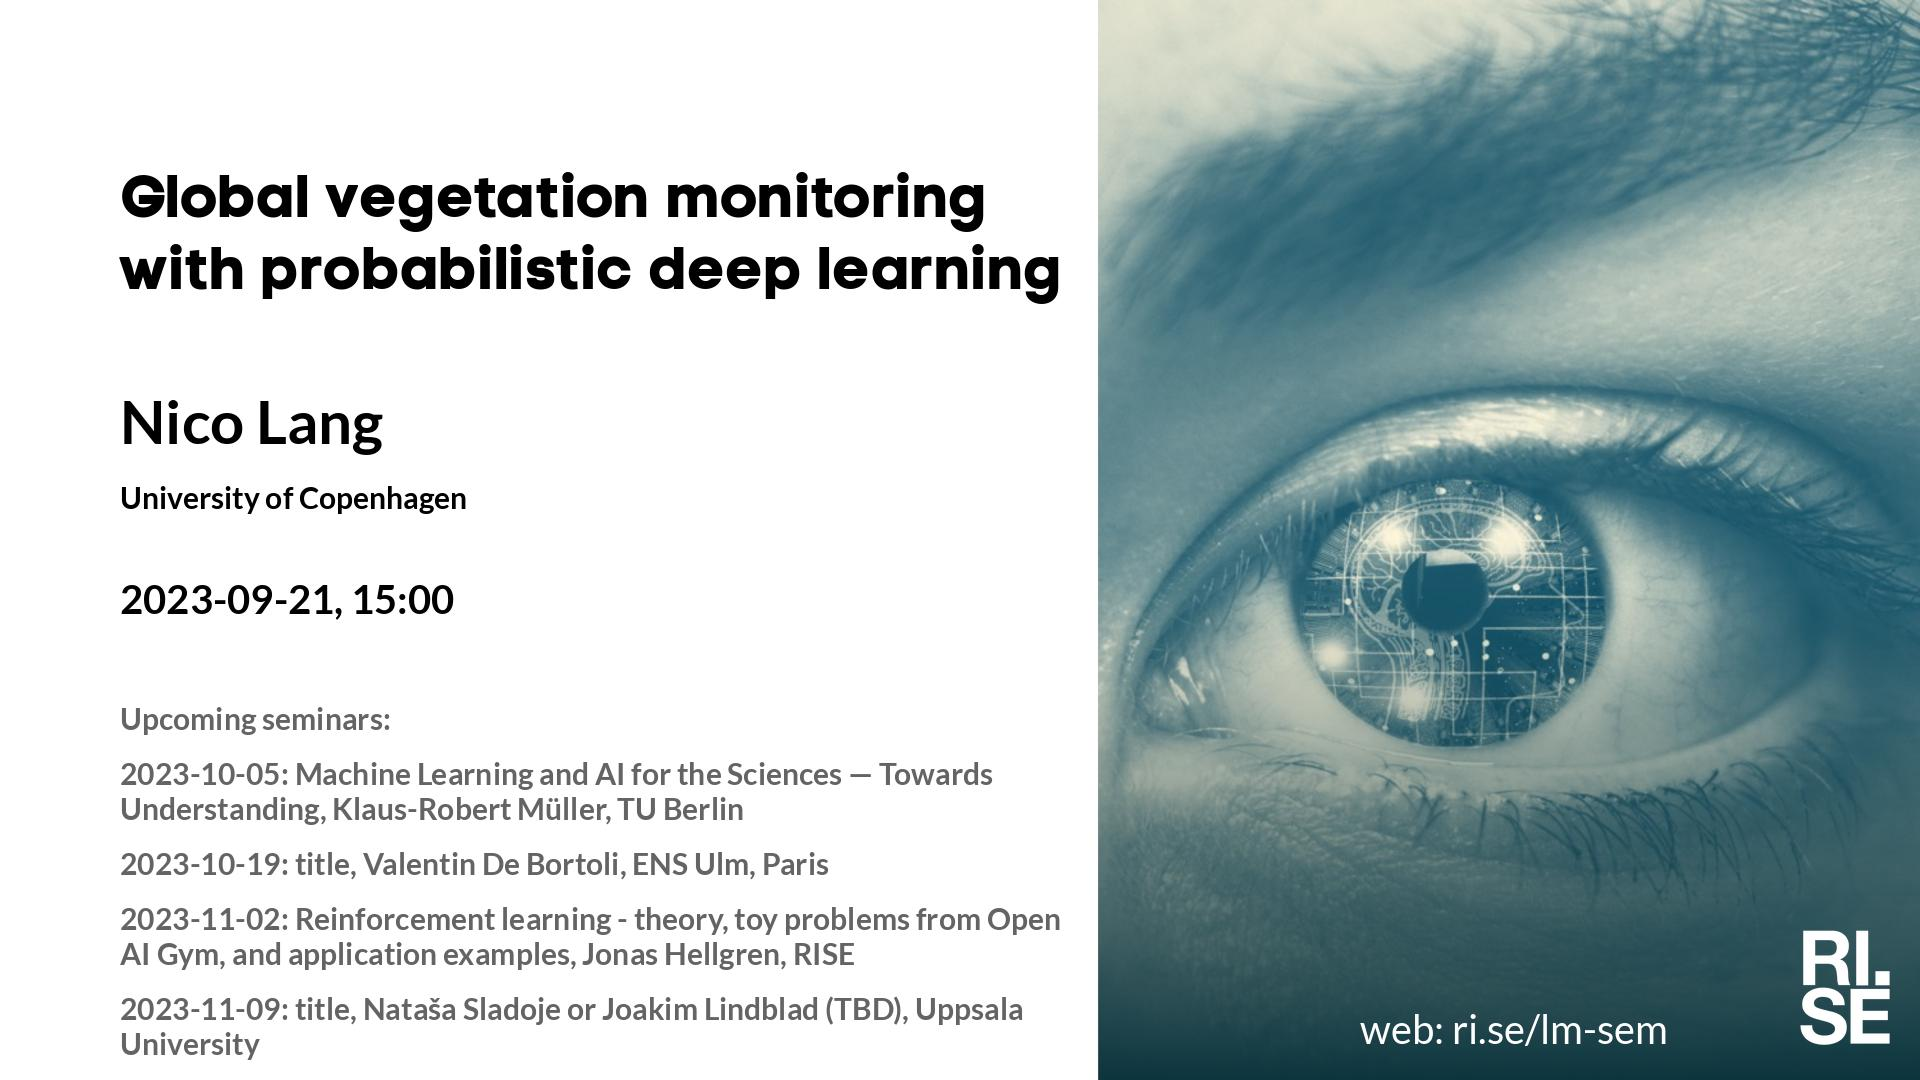
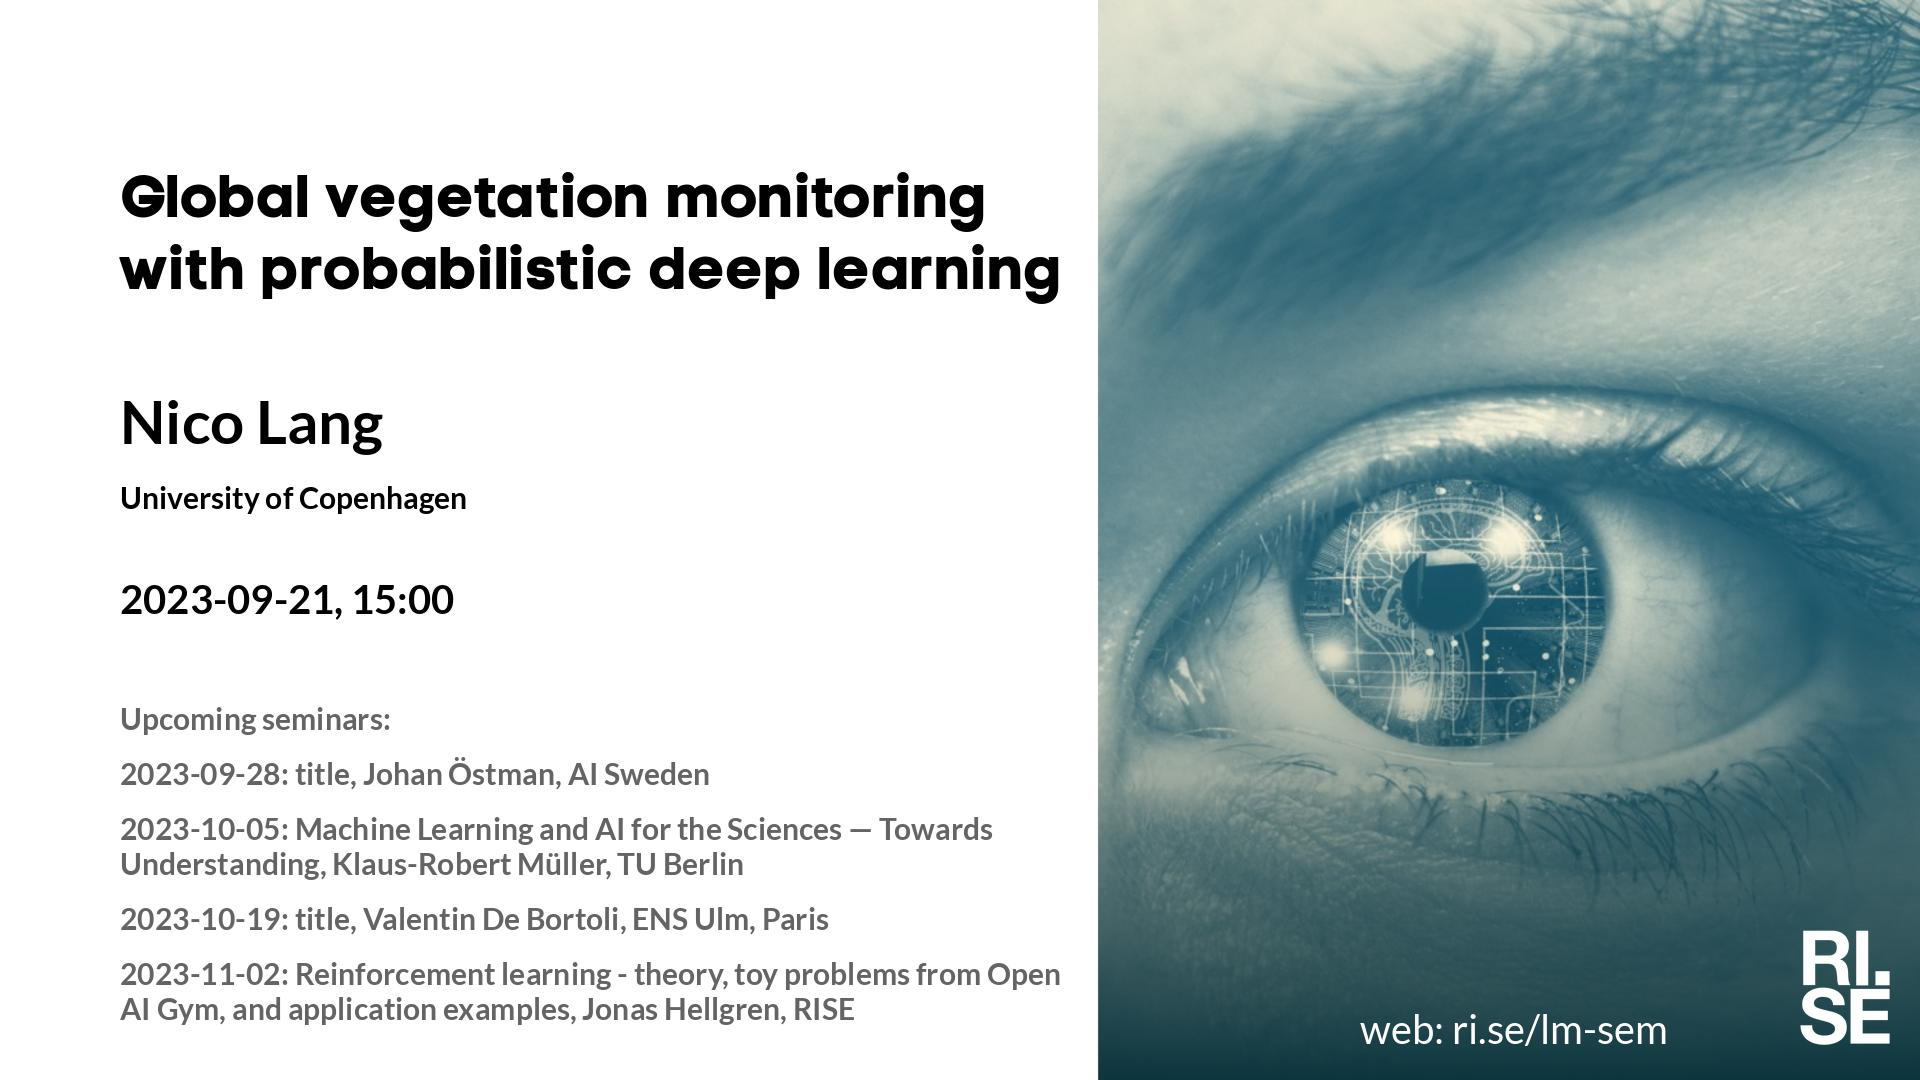
Updated plan on web site.

Changed region(s): [[0.0625, 0.7028, 0.5625, 0.9778], [0.4688, 0.7639, 0.5312, 0.7944]]

diff --git a/lm/index.md b/lm/index.md
@@ -5,7 +5,7 @@ metatags: "<meta name=\"robots\" content=\"noindex,nofollow\" />"
 <style type="text/css" scoped>
 td, th {border: 1px solid #ccc; padding: 0.6em;}
 table {border-collapse: collapse;}
-</style># Learning Machines Plan 2023-06-28
+</style># Learning Machines Plan 2023-06-30
 
 | date | speaker                                   | photo | shareable | meeting backdrop | youtube thumbnail | <a title="Speaker, Title, Abstract, Bio, Photo. Strikethrough means we don't have it yet.">comment</a>        |
 | ---- | ----------------------------------------- | ----- | ----- | ----- | ----- | -------------- |
@@ -13,7 +13,7 @@ table {border-collapse: collapse;}
 | <span style="color:grey"> 2023-09-07 </span> | <span style="color:grey"> Adam B. ? or J. Ö. ? </span> | <span style="color:grey">  </span> | <span style="color:grey">  </span> | <span style="color:grey">  </span> | <span style="color:grey">  </span> | <span style="color:grey"> ?~~TABP~~ </span> |
 |  2023-09-14  |  [Virginia Smith, CMU](2023-09-14.md)  |  [photo](photo-virginia-smith.jpg)  |  [social media ](social-media-virginia-smith.jpg)  |  [meeting backdrop ](meeting-backdrop-virginia-smith.jpg)  |  [youtube thumbnail ](youtube-thumbnail-virginia-smith.jpg)  |  S~~TAB~~P  |
 |  2023-09-21  |  [Nico Lang, University of Copenhagen](2023-09-21.md)  |  [photo](photo-nico-lang.jpg)  |  [social media ](social-media-nico-lang.jpg)  |  [meeting backdrop ](meeting-backdrop-nico-lang.jpg)  |  [youtube thumbnail ](youtube-thumbnail-nico-lang.jpg)  |  STABP  |
-| <span style="color:grey"> 2023-09-28 </span> | <span style="color:grey"> Jaakko P. ? </span> | <span style="color:grey">  </span> | <span style="color:grey">  </span> | <span style="color:grey">  </span> | <span style="color:grey">  </span> | <span style="color:grey"> ?~~TABP~~ </span> |
+|  2023-09-28  |  [Johan Östman, AI Sweden](2023-09-28.md)  |    |  [social media ](social-media-johan-ostman.jpg)  |  [meeting backdrop ](meeting-backdrop-johan-ostman.jpg)  |  [youtube thumbnail ](youtube-thumbnail-johan-ostman.jpg)  |  S~~TABP~~  |
 |  2023-10-05  |  [Klaus-Robert Müller, TU Berlin](2023-10-05.md)  |  [photo](photo-klaus-robert-muller.jpg)  |  [social media ](social-media-klaus-robert-muller.jpg)  |  [meeting backdrop ](meeting-backdrop-klaus-robert-muller.jpg)  |  [youtube thumbnail ](youtube-thumbnail-klaus-robert-muller.jpg)  |  STABP  |
 | <span style="color:grey"> 2023-10-12 </span> | <span style="color:grey"> Giulio B. ? </span> | <span style="color:grey">  </span> | <span style="color:grey">  </span> | <span style="color:grey">  </span> | <span style="color:grey">  </span> | <span style="color:grey"> ?~~TABP~~ </span> |
 |  2023-10-19  |  [Valentin De Bortoli, ENS Ulm, Paris](2023-10-19.md)  |  [photo](photo-valentin-de-bortoli.jpg)  |  [social media ](social-media-valentin-de-bortoli.jpg)  |  [meeting backdrop ](meeting-backdrop-valentin-de-bortoli.jpg)  |  [youtube thumbnail ](youtube-thumbnail-valentin-de-bortoli.jpg)  |  S~~TAB~~P  |

diff --git a/lm/2023-09-28.md b/lm/2023-09-28.md
@@ -6,7 +6,7 @@ Welcome to this week's Learning Machines seminar.
 
 **Title:** N/A
 
-**Speaker:** Virginia Smith, CMU
+**Speaker:** Johan Östman, AI Sweden
 
 **Abstract:** N/A
 
@@ -14,14 +14,14 @@ Welcome to this week's Learning Machines seminar.
 
 **Location:** location, or online using Zoom.
 
-**Zoom link:** [https://rise.zoom.us/j/208117140?pwd=MWwvQXpId012U2pNMDc3TlgrSXQ5UT09](https://rise.zoom.us/j/208117140?pwd=MWwvQXpId012U2pNMDc3TlgrSXQ5UT09)
+**Zoom link:** [https://rise.zoom.us/j/208117140](https://rise.zoom.us/j/208117140)
 
 **Upcoming seminars:**
 
-* 2023-09-21: *Global vegetation monitoring with probabilistic deep learning*, Nico Lang, University of Copenhagen
-* 2023-09-28: *title*, Johan Östman, AI Sweden
 * 2023-10-05: *Machine Learning and AI for the Sciences — Towards Understanding*, Klaus-Robert Müller, TU Berlin
 * 2023-10-19: *title*, Valentin De Bortoli, ENS Ulm, Paris
+* 2023-11-02: *Reinforcement learning - theory, toy problems from Open AI Gym, and application examples*, Jonas Hellgren, RISE
+* 2023-11-09: *title*, Nataša Sladoje or Joakim Lindblad (TBD), Uppsala University
 
 More information and coming seminars: [https://ri.se/lm-sem](https://ri.se/lm-sem)
 

diff --git a/lm/2023-09-21.md b/lm/2023-09-21.md
@@ -20,10 +20,10 @@ Website: https://langnico.github.io/
 
 **Upcoming seminars:**
 
+* 2023-09-28: *title*, Johan Östman, AI Sweden
 * 2023-10-05: *Machine Learning and AI for the Sciences — Towards Understanding*, Klaus-Robert Müller, TU Berlin
 * 2023-10-19: *title*, Valentin De Bortoli, ENS Ulm, Paris
 * 2023-11-02: *Reinforcement learning - theory, toy problems from Open AI Gym, and application examples*, Jonas Hellgren, RISE
-* 2023-11-09: *title*, Nataša Sladoje or Joakim Lindblad (TBD), Uppsala University
 
 More information and coming seminars: [https://ri.se/lm-sem](https://ri.se/lm-sem)
 
